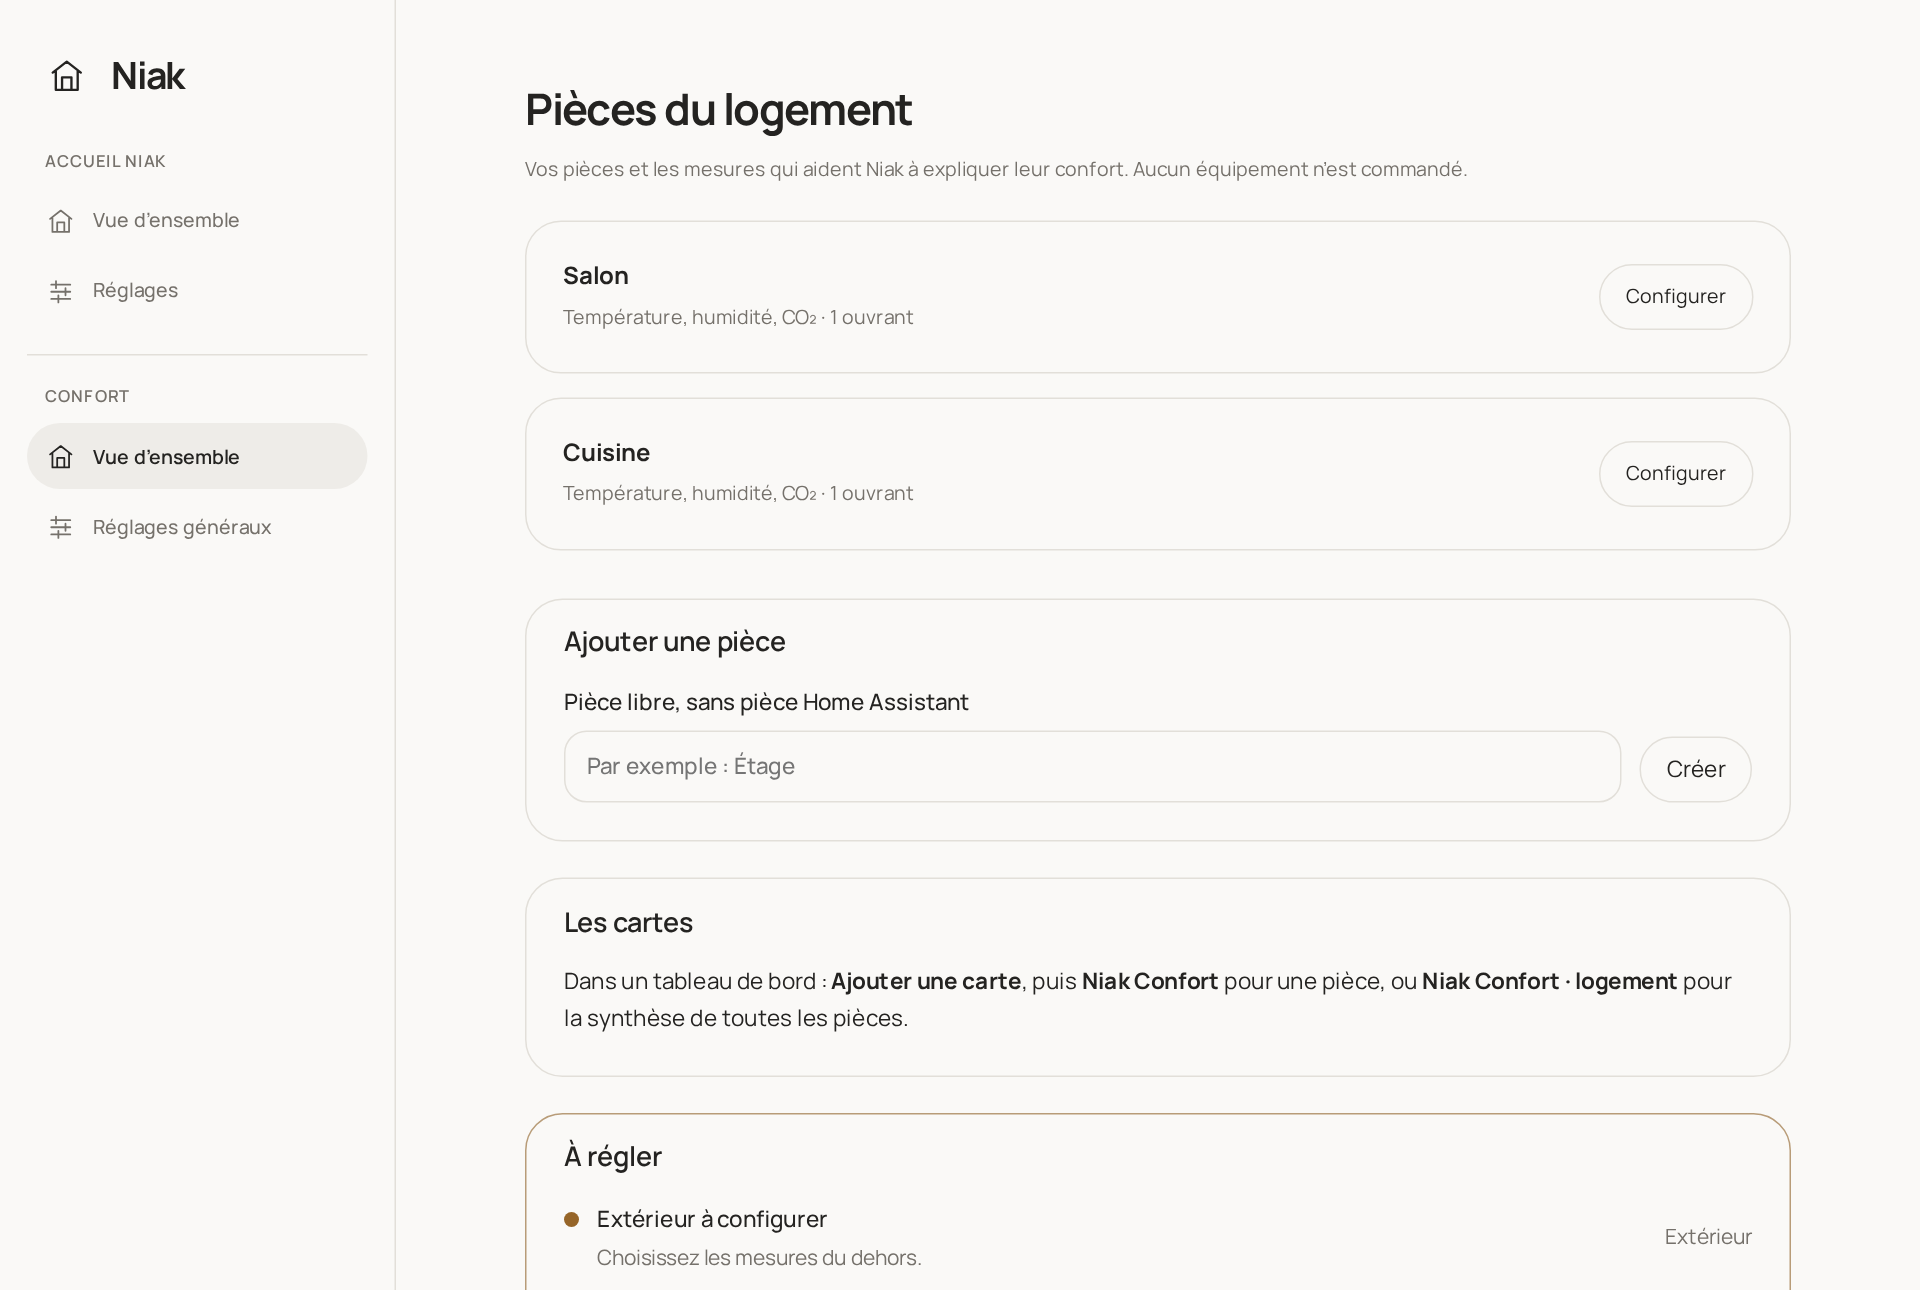
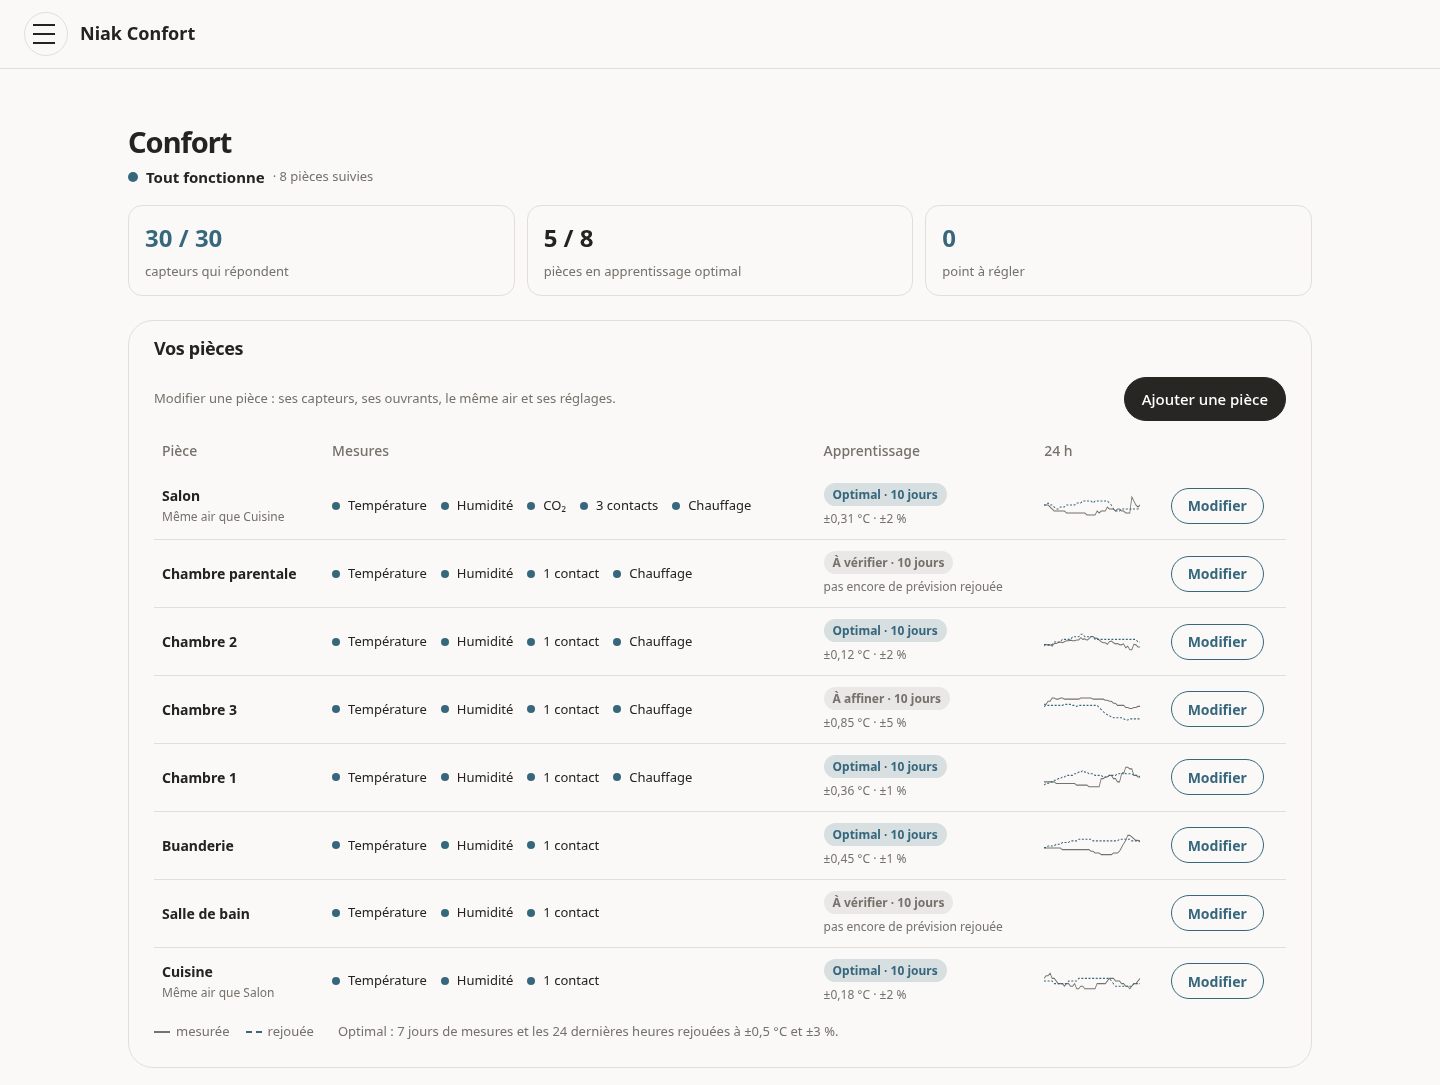
docs: README, guide et dépannage à jour pour la 1.2.5

diff --git a/docs/guide.md b/docs/guide.md
@@ -33,20 +33,20 @@ L’extérieur se règle une seule fois, dans **Confort → Réglages généraux
 
 Si [Niak Weather](https://github.com/Niakman13/niak-weather-integration) est installé, choisissez **Niak Weather** puis votre lieu.
 
-Confort reprend alors :
+Confort reprend alors, sans rien à choisir :
 
 - la station de votre lieu : température, humidité, pluie, vent, soleil ;
 - les prévisions : « Refermez avant la pluie », « Aérez vers 22 h », fraîcheur de la nuit ;
 - les vigilances et les orages ;
 - la qualité de l’air du jour.
 
-L’air du dehors suit la source choisie dans Niak Weather : Atmo France ou une station WAQI. Changez-la dans Weather : Confort suit. Il faut Niak Weather 2.5.7 ou plus récent.
+Les mesures sont seulement affichées, avec leur valeur du moment. Pour en changer : changez la station dans Niak Weather, ou choisissez **Vos propres capteurs**.
 
-Vous avez choisi **Pas de qualité de l’air** dans Confort ? Ce choix est respecté : l’air de Weather n’est pas pris en compte.
+L’air du dehors suit la source choisie dans Niak Weather : Atmo France ou une station WAQI. Changez-la dans Weather : Confort suit. Il faut Niak Weather 2.5.7 ou plus récent. Dans Confort, seul le niveau de prudence se règle. Pour ne pas tenir compte de l’air, désactivez la qualité de l’air dans Niak Weather.
 
 ### Avec vos propres capteurs
 
-Choisissez **Vos propres capteurs**, puis chaque mesure. Toutes sont facultatives :
+Choisissez **Vos propres capteurs**, puis le capteur de chaque mesure ; sa valeur du moment s’affiche à côté. Toutes sont facultatives :
 
 | Mesure | À quoi elle sert |
 | --- | --- |
@@ -65,7 +65,7 @@ Une mesure absente reste inconnue : Niak conseille quand même et le dit sur la 
 
 ## Les pièces
 
-La **vue d’ensemble** liste vos pièces. **Configurer** ouvre les réglages d’une pièce.
+L’accueil Confort (**Vue d’ensemble**) liste vos pièces : leurs mesures, leur apprentissage et un bouton **Modifier**, qui ouvre les réglages de la pièce. **Ajouter une pièce** propose vos pièces Home Assistant pas encore suivies, ou une pièce libre.
 
 ![Les réglages d’une pièce : l’onglet Ouvertures](images/niak-comfort-reglages.png)
 
@@ -152,6 +152,7 @@ Il ne commande rien.
 - Le nom de la pièce et sa pièce Home Assistant.
 - L’étage : repris de Home Assistant, ou à choisir pour une pièce libre.
 - **Pièce non chauffée** : Niak ne conseille jamais de la réchauffer.
+- **Même air** : cochez les pièces ouvertes sur celle-ci, sans mur ni porte entre elles (un salon ouvert sur sa cuisine). Leurs fenêtres comptent pour les deux, elles n’ont qu’une carte, et jamais deux gestes contraires.
 - Les réglages avancés, facultatifs : rafales (45 km/h), gel (1 °C), soleil sur une façade (250 W/m²), faible lumière (100 lux), ancienneté des mesures (3 h).
 
 Un capteur à vérifier demande une confirmation. Elle est retenue ensuite.
@@ -179,6 +180,8 @@ Un capteur à vérifier demande une confirmation. Elle est retenue ensuite.
 
 Niak ne parle que pour un geste qui aide. Sinon : « Rien à faire ».
 
+**Dessous, « À savoir »** : ce qui est utile à savoir, sans geste à faire. Une idée par ligne : risque de moisissure sur les murs froids, air humide dehors, même air qu’une autre pièce, VMC en marche, résultat de la dernière aération (« humidité 76 → 70 % »).
+
 Plusieurs conseils ? Ils défilent, le plus important d’abord. Un appui passe au suivant.
 
 **Pendant l’aération**, le conseil suit le temps : « Encore 5 min d’aération », puis « Vous pouvez refermer ».
@@ -189,7 +192,7 @@ Plusieurs conseils ? Ils défilent, le plus important d’abord. Un appui passe 
 - le trait sombre : le minimum et le maximum des dernières 24 h ;
 - le rond vide : la température dehors.
 
-**Les mesures** sont des tuiles : humidité, CO₂, fenêtres, soleil, chauffage, VMC… Une mesure hors de votre plage s’encadre en ambre.
+**Les mesures** sont des tuiles : humidité, CO₂, fenêtres, soleil, chauffage, VMC… Une mesure hors de votre plage n’est encadrée en ambre que si un geste est conseillé.
 
 **Détails** rassemble les sources, la tendance, l’apprentissage (« Séchage ») et ce qui manque.
 
@@ -318,6 +321,18 @@ Ce que ça change :
 - **Le bon moment** : « Aérez vers 22 h » quand l’air du soir sera plus sec (avec Niak Weather).
 
 Dans **Détails**, la ligne **Séchage** dit sur combien d’aérations la pièce a appris.
+
+### Apprentissage optimal
+
+Niak rejoue chaque jour les prévisions de la pièce sur les dernières 24 heures. L’apprentissage est **optimal** après 7 jours de mesures, quand ces prévisions tiennent à ±0,5 °C et ±3 % d’humidité.
+
+Alors le conseil est **optimisé** : il annonce le résultat, « Aérez 15 min · 76 → 68 % en 15 min », aussi pour le CO₂ et les COV. Une pastille « Conseil optimisé » le signale. Si les prévisions ne tiennent plus, la pièce repasse en conseil estimé.
+
+Chaque aération conseillée et suivie est mesurée : la carte montre son résultat pendant 24 h, l’accueil Confort le bilan de la semaine.
+
+Quand l’humidité d’une pièce monte souvent à la même heure, ou qu’une fenêtre reste ouverte la nuit, l’accueil pose une question : Oui, Non ou Je ne sais pas. Une cause n’est jamais devinée : seul un « Oui » la nomme.
+
+L’accueil Confort montre où en est chaque pièce : optimal, en cours, à affiner ou à vérifier, avec la précision de ses prévisions et sa courbe sur 24 h.
 
 Pour apprendre, une pièce a besoin :
 

diff --git a/README.md b/README.md
@@ -28,7 +28,7 @@ Niak Confort compare dedans et dehors, et répond aux questions de tous les jour
 - **L’air est lourd** : le CO₂ monte, c’est le moment d’aérer.
 - **Il pleut, le vent souffle** : quelle fenêtre refermer ?
 
-Chaque pièce apprend de ses aérations : les conseils s’ajustent à votre maison.
+Chaque pièce apprend de ses aérations : les conseils s’ajustent à votre maison. Quand l’apprentissage est optimal, le conseil annonce le résultat : « Aérez 15 min · 76 → 68 % ».
 
 Toute la famille lit la même carte. Elle ne parle que quand un geste aide vraiment.
 
@@ -53,8 +53,8 @@ La carte est fournie par l’intégration : rien d’autre à installer.
 ## Premiers pas
 
 1. **Vos pièces** : Niak reprend vos pièces Home Assistant et les capteurs qui y sont rangés. Décochez celles à ne pas suivre, puis créez-les d’un coup.
-2. **L’extérieur** : dans **Réglages généraux**, reprenez Niak Weather en un clic, ou choisissez vos capteurs. Il sert à toutes les pièces.
-3. **Chaque pièce** : **Configurer** ouvre ses réglages. Niak propose les capteurs de la pièce : vous gardez, changez ou retirez.
+2. **L’extérieur** : dans **Réglages généraux**, choisissez Niak Weather (ses mesures sont reprises telles quelles) ou vos capteurs. Il sert à toutes les pièces.
+3. **Chaque pièce** : sur l’accueil Confort, **Modifier** ouvre ses réglages. Niak propose les capteurs de la pièce : vous gardez, changez ou retirez.
 4. **La carte** : sur un tableau de bord, **Ajouter une carte → Niak Confort**.
 
 Rien n’est enregistré avant **Enregistrer**. [Le guide pas à pas](docs/guide.md).
@@ -67,6 +67,10 @@ Deux cartes à choisir dans **Ajouter une carte** :
 - **Niak Confort · logement** : toutes les pièces. Les conseils qui comptent, la température de chaque pièce, l’air qui traverse. Formats : complète, tuile, liste des pièces, mini, alerte.
 
 Comme pour Niak Weather, un appui long sur une tuile (un appui sur mini et alerte) ouvre la carte complète en fenêtre, une page de votre choix, ou rien. Sur la carte logement complète ou en liste, l’appui long peut ouvrir une page, par exemple votre page Maison.
+
+En haut, le bandeau ne porte qu’un geste, ou « Rien à faire ». Dessous, l’encart **À savoir** dit le reste en mots simples : risque de moisissure, air humide dehors, résultat de la dernière aération…
+
+Deux pièces sans mur entre elles (un salon ouvert sur sa cuisine) partagent leur air : une seule carte « Salon · Cuisine », jamais deux gestes contraires.
 
 La couleur dit s’il y a quelque chose à faire :
 
@@ -83,10 +87,10 @@ Un appui sur une mesure ouvre son historique dans Home Assistant. [Lire les cons
 
 Tout se règle dans le panneau **Niak** de la barre latérale, onglet **Confort**. Pas de YAML, pas de nom d’entité à connaître.
 
-![Le panneau Niak, onglet Confort : les pièces du logement](docs/images/niak-comfort-panneau.png)
+![Le panneau Niak, onglet Confort : l’accueil, avec chaque pièce, ses mesures et son apprentissage](docs/images/niak-comfort-panneau.png)
 
-- **Vue d’ensemble** : vos pièces, avec **Configurer**, et ce qui reste à régler.
-- **Réglages généraux** : l’extérieur, commun à toutes les pièces.
+- **Vue d’ensemble** : l’état du logement, ce qui reste à régler, puis **Vos pièces** : les mesures de chacune, son apprentissage et un bouton **Modifier**. **Ajouter une pièce** se fait sur place.
+- **Réglages généraux** : l’extérieur, commun à toutes les pièces. Avec Niak Weather, ses mesures sont seulement affichées.
 - Une pièce se règle en six onglets : Température, Ouvertures, Air intérieur, Présence, Chauffage, La pièce.
 
 Chaque réglage a son aide. Les seuils sont expliqués avec leurs sources ([les repères](docs/SEUILS.md)).

diff --git a/docs/depannage.md b/docs/depannage.md
@@ -2,7 +2,7 @@
 
 Commencez par l’**Accueil Niak** : il dit ce qui va, et ce qui reste à régler en orange.
 
-Puis ouvrez **Confort → Vue d’ensemble**. La section **À régler** liste chaque problème, avec un bouton vers le bon réglage.
+Puis ouvrez **Confort → Vue d’ensemble**. Quand quelque chose est à régler, l’encadré **À régler** liste chaque problème, avec un bouton vers le bon réglage. Le tableau **Vos pièces** montre, pour chaque pièce, les mesures qui répondent.
 
 - [Un capteur ne répond pas](#un-capteur-ne-répond-pas)
 - [Mesures en chargement ou absentes](#mesures-en-chargement-ou-absentes)
@@ -67,7 +67,9 @@ La carte est fournie par l’intégration : rien à installer à part.
 - Confort a besoin de Niak Weather 2.1 ou plus récent ;
 - après l’installation de Weather, redémarrez Home Assistant.
 
-Une fois relié, la **Vue d’ensemble** de Confort indique « Relié à Niak Weather ». Weather affiche aussi « Relié à Niak Confort ».
+Une fois relié, l’encadré **Extérieur** de la Vue d’ensemble indique « Niak Weather · » et votre lieu. Weather affiche aussi « Relié à Niak Confort ».
+
+**Une mesure du dehors à changer** : avec Niak Weather, elles sont reprises de sa station et ne se choisissent pas dans Confort. Changez la station dans Niak Weather, ou choisissez **Vos propres capteurs** dans Réglages généraux.
 
 **Pas d’anticipation** (« Refermez avant la pluie », « Aérez vers 22 h ») : elle vient des prévisions de Niak Weather.
 
@@ -100,7 +102,7 @@ Vérifiez aussi les réglages de la pièce :
 
 « **Rien à faire** » alors qu’il fait chaud ? Dehors n’est pas plus frais, ou ouvrir n’aiderait pas. Niak ne parle que pour un geste utile.
 
-La durée d’aération change ? La pièce apprend. Les premiers jours, elle reste prudente.
+La durée d’aération change ? La pièce apprend. Les premiers jours, elle reste prudente. Son état d’apprentissage et la précision de ses prévisions sont dans **Vos pièces**, sur la Vue d’ensemble.
 
 ## Volets et Adaptive Cover Pro
 
